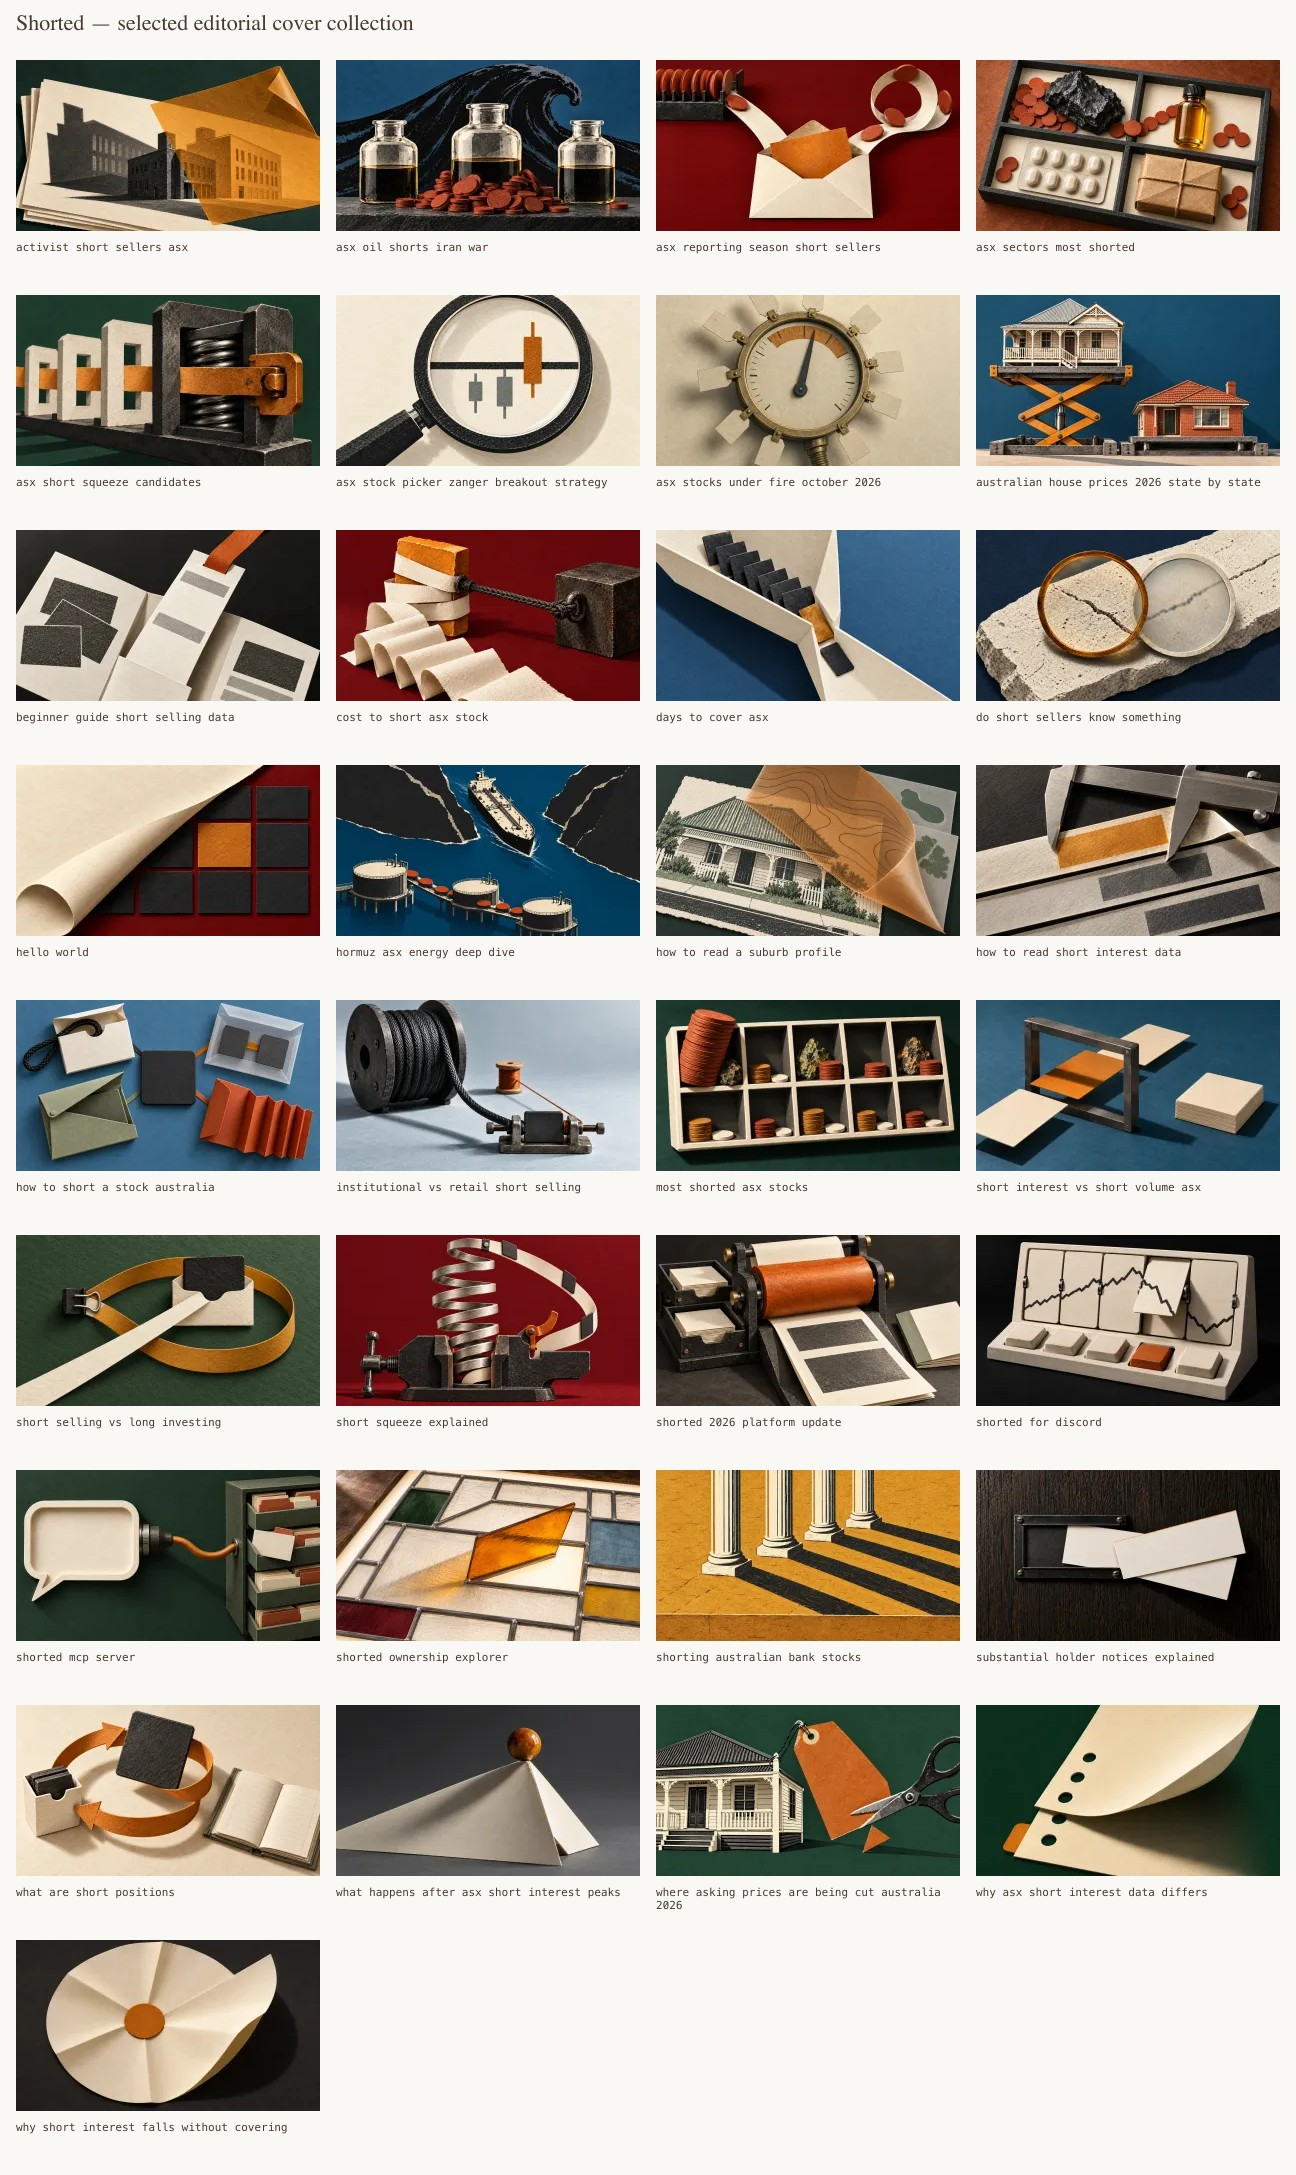
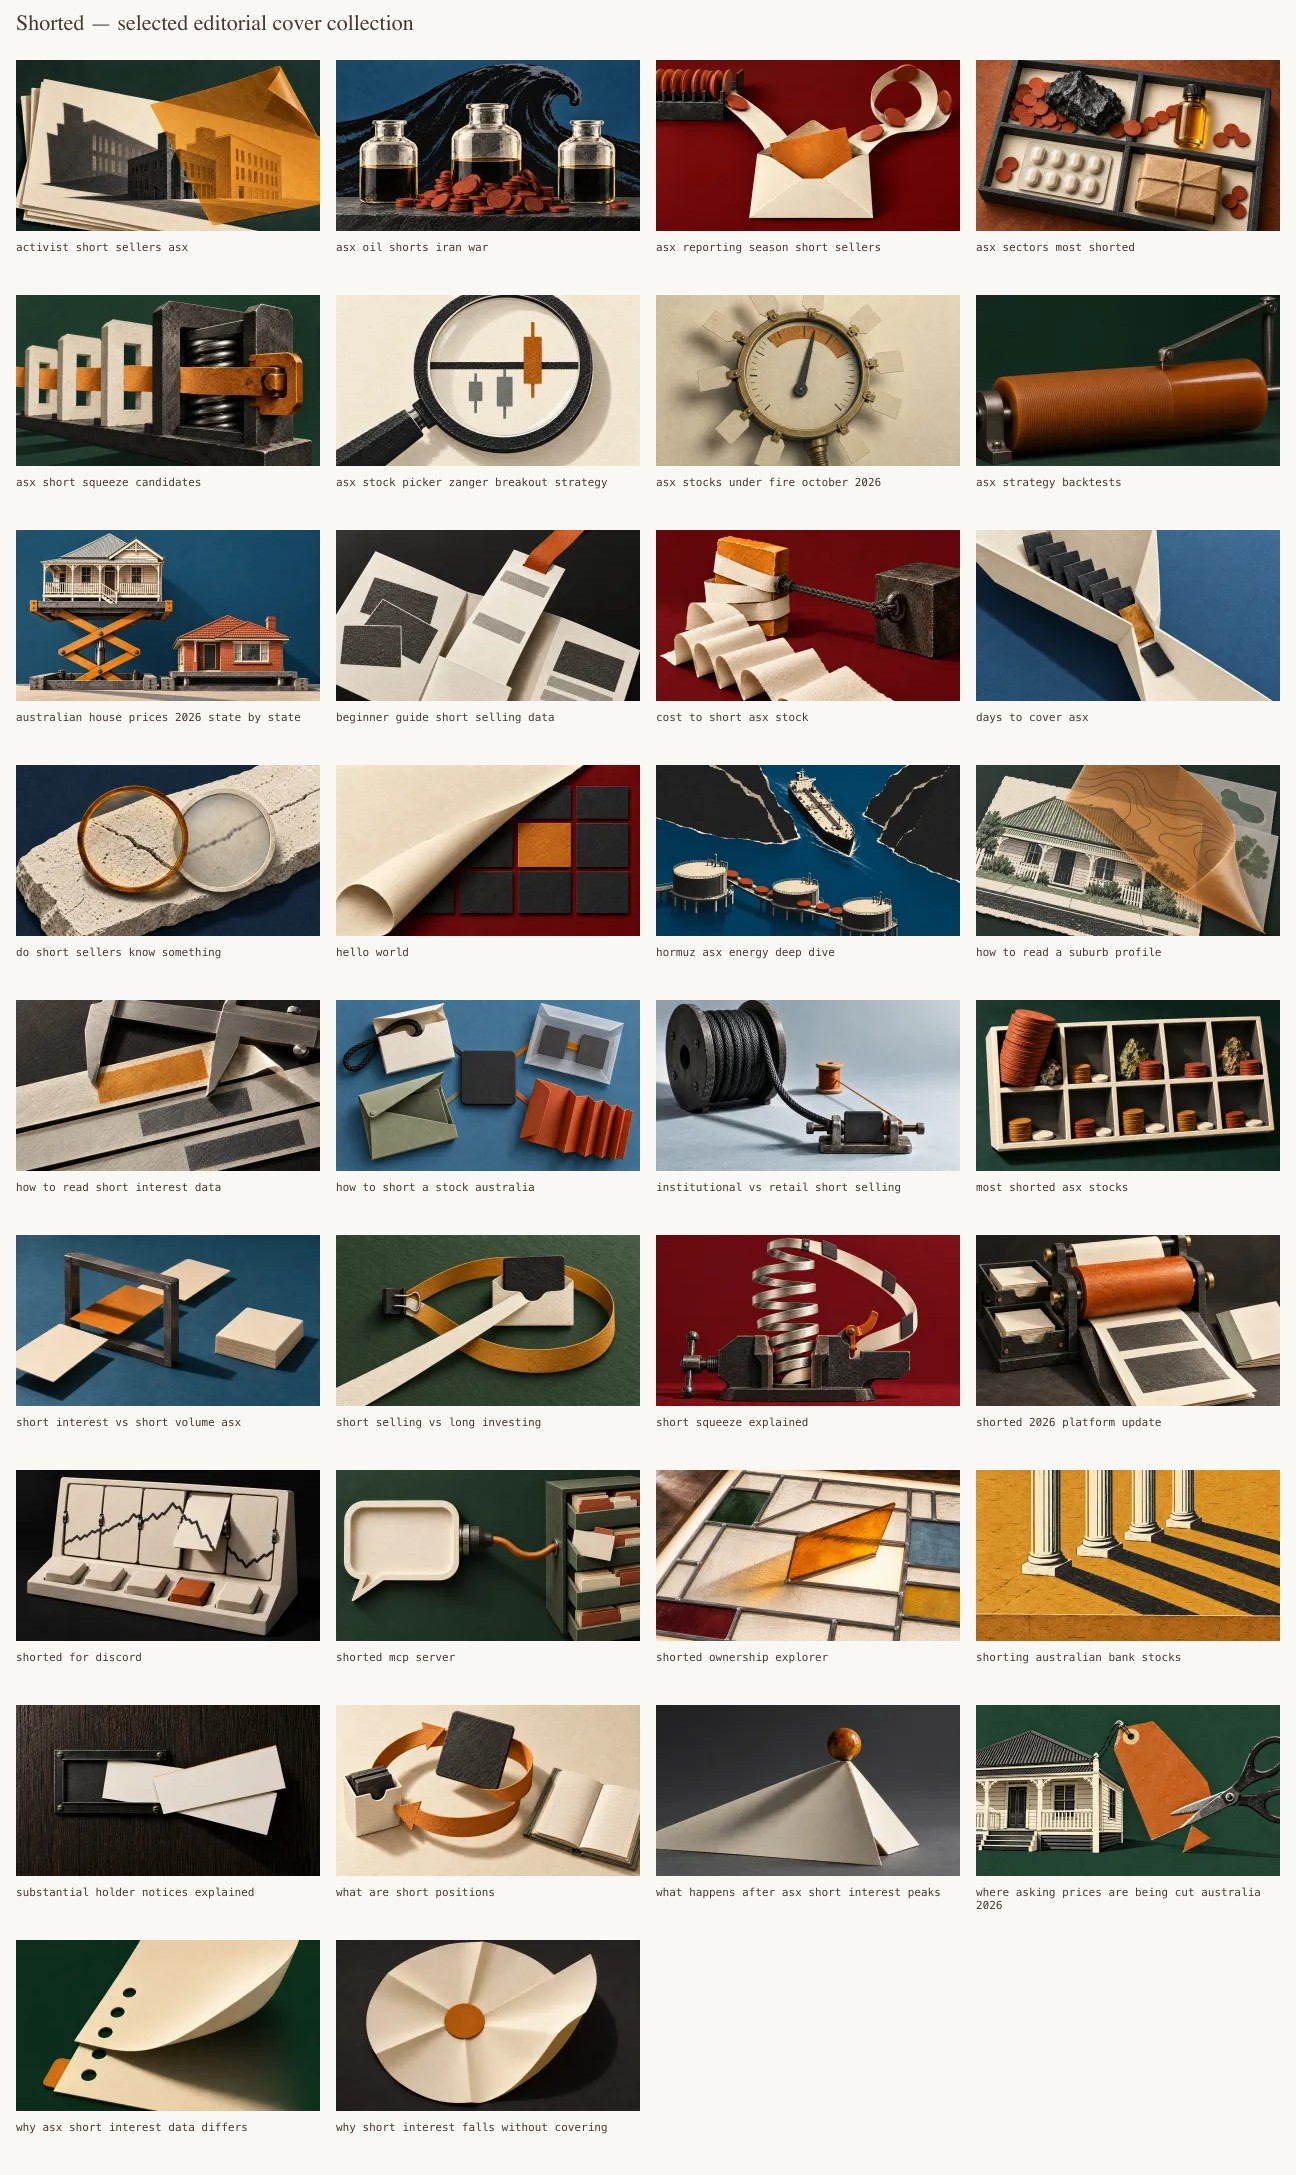
content: backtests for the ASX stock picker
What rules v1 would have done since 1 May 2019, from the runs published on
7 November 2026: Crowded-Short Breakout -5.6% a year and Minervini Trend
Template -16.3%, against 8.7% for XJT; Zanger Breakout, CAN SLIM and
Quality Compounders not computable before FY2023. Every figure is read from
GetBacktestRun; the recipes, the survivorship, coverage and reference
caveats and the sensitivity runs are stated as the Backtest tab states them.

Screenshots of the explorer's returns table and Crowded-Short's Backtest
tab, aligned with the docs/feature/strategies mockups. Cover v1 (a wax
cylinder grooved to the needle), its thumbnail, provenance and the refreshed
collection sheets.

diff --git a/output/article-covers/asx-strategy-backtests.md b/output/article-covers/asx-strategy-backtests.md
@@ -1,0 +1,65 @@
+# asx-strategy-backtests — editorial cover v1
+
+- Mode: Codex built-in `image_gen` via `codex exec` (the `$imagegen` skill in its default built-in tool mode; not the CLI fallback, an API script or `scripts/image-gen`). New generation, no input or reference images, opaque background, 16:9.
+- Run: Codex CLI, `codex exec -m gpt-6-astra -s workspace-write --skip-git-repo-check -`, instructions on stdin (reproduced below), session `01a1b4c2-4ddc-7b20-be6a-3181fdd2f7d1` (2026-11-07). One `image_gen` call; the prompt Codex echoed back is identical to the prompt below.
[1 lines of base64/hex data omitted]
+- Workspace original: `output/article-covers/asx-strategy-backtests.png`, 1672 × 941.
+- Final cover: `web/public/assets/blog/asx-strategy-backtests/cover-editorial-v1.webp`, 1600 × 900, WebP quality 88 (sharp `fit: 'cover'` from the 16:9 original, trimming under one pixel; no letterbox).
+- Thumbnail: from `web/`, `node --import tsx scripts/editorial-thumbnails.mts --slug=asx-strategy-backtests`.
+- Collection inspected before commissioning: `output/article-covers/review-sheet.jpg`. First cover for this slug; one generation, no revision. A punched paper tape with a wax seal was considered first and dropped: paper strips already carry five covers (reporting season, cost to short, short selling vs long investing, short squeeze explained, how to read short interest data).
+
+## Editorial brief
+
+Finding → subject → action → caveat: Shorted now replays each strategy's frozen rules over ASX history since 2019, after costs, and from the day the rules were frozen records them going forward → a wax phonograph cylinder on a steel mandrel, finely grooved along two thirds of its length and smooth beyond → the reproducer's needle rests exactly where the grooves end → the grooves are a replay of the past (a hypothetical, in-sample test), not a promise; the smooth wax is what has not happened yet.
+
+Subject: A single burnt-amber wax phonograph cylinder sleeved over a slender steel mandrel, held by a bearing block at its left end; a slender steel reproducer arm on a post at the right.
+
+Action: The needle rests on the cylinder's top at the boundary between the grooved section (the replayed history) and the smooth, unrecorded section (the forward record).
+
+Hook: The arm's long taut diagonal down to the boundary, and the change from matte ribbed wax to glossy smooth wax under one raking light.
+
+Large shapes: One long warm amber cylinder across the frame and one dark diagonal arm against a deep ink-green field.
+
+Colour field: Deep ink green (a dark composition; its listing neighbours, the Zanger and ownership covers, are both light), charcoal steel, burnt-amber wax.
+
+Material: Materially believable still life: wax with fine machined grooves, brushed steel with plausible joints and pivots. Wax and a cylinder silhouette are new to the collection.
+
+Caveat: An editorial metaphor for a replayed historical record and a forward record, not a chart or a promise of returns. No gramophone horn, labels, musical notes, sound waves, money, arrows or rising lines; no text, numbers, logos, people or hands.
+
+## Codex instructions (stdin, verbatim)
+
+```text
+Use your built-in image generation tool (image_gen) exactly once to create a NEW image from the prompt below. Pass the prompt to the tool verbatim, as the whole prompt, with a 16:9 landscape size and an opaque background. Do not use any CLI fallback, API script, Python or other generator. Do not edit, create or move any files, and do not run shell commands. When the tool returns, reply with the generated image's file path and the exact prompt you passed.
+
+PROMPT (verbatim, between the markers):
+<<<PROMPT
+(the exact final prompt below)
+PROMPT>>>
+```
+
+## Exact final prompt
+
+```text
+Use case: stylized-concept
+Asset type: 16:9 landscape editorial article cover for Shorted, an Australian financial-data publication; it must also read clearly as a small thumbnail.
+Primary request: Shorted now replays each trading strategy's fixed rules over seven years of share-market history, and from the day the rules were frozen it records them going forward. Show a single wax phonograph cylinder lying horizontally across the frame on a slender steel mandrel, seen from a low three-quarter angle and cropped close. The cylinder is solid burnt-amber wax. Its left two thirds are cut with very fine, evenly spaced grooves that give that part a matte, finely ribbed surface. Its right third is smooth, glossy and unrecorded, catching one clean specular highlight. A slender dark steel reproducer arm comes in from the upper right on a long taut diagonal, and its fine needle rests on the top of the cylinder exactly at the boundary where the grooves end and the smooth wax begins. That boundary, with the needle point on it, is the focal point.
+Composition: The cylinder and the arm fill about two thirds of the frame; the needle point and the groove boundary sit inside the central 80% of the image, slightly right of centre, with a quiet pocket of dark background around them. The arm's diagonal is the strongest line. Build large simple value shapes first: one long warm amber cylinder and one dark diagonal arm against a deep ink-green field, with the matte grooved section and the glossy smooth section clearly different in value under a low raking light from the left.
+Style: Materially believable editorial still life, close and calm. Real wax with fine machined grooves, brushed steel with plausible joints and a small pivot, a matte deep ink-green backdrop with a soft cast shadow beneath the cylinder. Restrained colour: ink green, charcoal steel, burnt-amber wax. No lens flare, haze, bloom, cinematic glow or neon.
+Construction: The cylinder is one unbroken piece sleeved over the mandrel, which is held at its left end by a simple steel bearing block. The arm is one rigid piece pivoting from a small post at the upper right edge; the needle touches the wax at a single point and does not float or bend. Grooves run around the cylinder's circumference, parallel to its ends, and stop cleanly at the boundary.
+Caveat: An editorial metaphor for a replayed historical record and a forward record, not a chart, interface or a promise of returns. No gramophone horn, record labels, musical notes, sound waves, coins, banknotes, arrows, rising lines or Australian symbols. No text, letters, numbers, logos, watermark, people or hands anywhere.
+```
+
+## Acceptance review
+
+Selected. Inspected at full size, at 320 × 180 and 160 × 90, and side by side with asx-stock-picker-zanger-breakout-strategy v2 and shorted-ownership-explorer v1.
+
+- Subject and action: one burnt-amber wax cylinder on a steel mandrel, grooved over its left two thirds and smooth and glossy over its right third; the reproducer's needle rests on the top surface exactly at the boundary.
+- Value at 160 × 90: the amber cylinder separates cleanly from the ink-green field, the arm's diagonal leads to the boundary, and the smooth section reads lighter than the grooved one. The needle itself is too small to see at that size; the arm and the change of surface carry the moment.
+- Construction: the cylinder is one piece sleeved over the mandrel, which runs from the bearing block on the left to the post on the right; the arm hinges at the top of the post through a short link and ends in a needle holder with a screw; the needle touches the wax at one point. The grooves run around the circumference and stop on one clean line.
+- Caveat: no horn, labels, notes, waves, money, arrows or rising lines; no text, numbers or logos.
+- Central 80%: the needle point sits at about 61% of the width and 44% of the height; the arm's pivot reaches the right edge, as the brief's post at the upper right asked.
+- Collection: the only wax, cylinder and phonograph motif, and a dark field between two light neighbours in the strategies and ownership posts.
+- Residual, accepted: the needle is a small detail at card size; the boundary is carried by the arm and the change of surface instead.
+
+AI-generated editorial illustration, not a photograph.
+

diff --git a/docs/blog-thumbnail-directions.md b/docs/blog-thumbnail-directions.md
@@ -62,6 +62,7 @@ All 24 blog posts now use this construct, with topic-specific versioned `cover-e
 | `asx-sectors-most-shorted` | A close diagonal specimen tray contains ore, an oil vial, a tablet blister and a consumer parcel; rust discs cross the divider from ore toward oil. | Sector concentration and rotation are the subject. Avoid representing those conceptual clusters as exact sector weights. |
 | `asx-short-squeeze-candidates` | Four gates recede toward a dominant charcoal frame, where a broad spring remains held by a closed amber latch against ink green. | The article is a four-part screen for potential, distinct from the mechanics explainer's released spring. No candidate is shown as certain to launch. |
 | `asx-stock-picker-zanger-breakout-strategy` | An oversized analyst's lens and diagonal handle fill an ivory field; one amber candle crosses a resistance rail beside two subdued candidates. | Breakout thresholds and rules-based selection are the topic. Avoid a decorative Australia map, a named trader portrait or an endless rising price path. |
+| `asx-strategy-backtests` | A burnt-amber wax phonograph cylinder on a steel mandrel against deep ink green, finely grooved along two thirds of its length and smooth beyond; a steel reproducer arm rests its needle exactly where the grooves end. | Backtests replay each strategy's frozen rules over history, then a paper track records them forward from the freeze. The grooves are a replay of the past, not a promise; no horn, labels, money, arrows or rising lines. |
 | `australian-house-prices-2026-state-by-state` | Closely framed Australian house models sit on separate steel platforms against mineral blue: an ivory weatherboard house raised on an amber lift, a brick bungalow nearly flat. | The central finding is a two-speed housing market hidden by a national average. Use qualitative height, not invented state-by-state data. |
 | `beginner-guide-short-selling-data` | A closely framed ivory research guide cuts diagonally across charcoal; an amber ribbon lifts one report strip into view. | A first research workflow brings clarity to unfamiliar data. Keep the illustration welcoming and simple, without a generic sector-icon grid, hiking scenery or another magnifier. |
 | `cost-to-short-asx-stock` | A dominant amber borrowed-share tile is wrapped by an accumulating ivory bill and tethered to a charcoal collateral block against oxblood. | Borrow fees, tied-up margin and dividend payments accumulate beyond brokerage. Avoid a money pile or an implied universal fee quote. |
